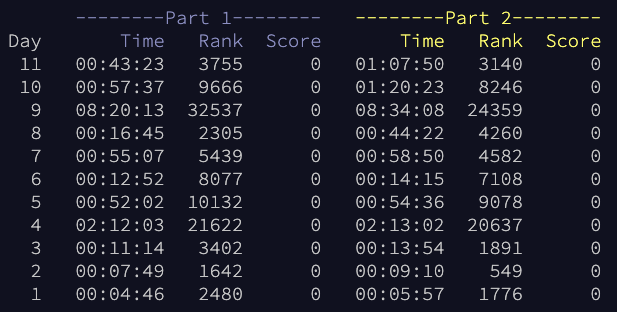
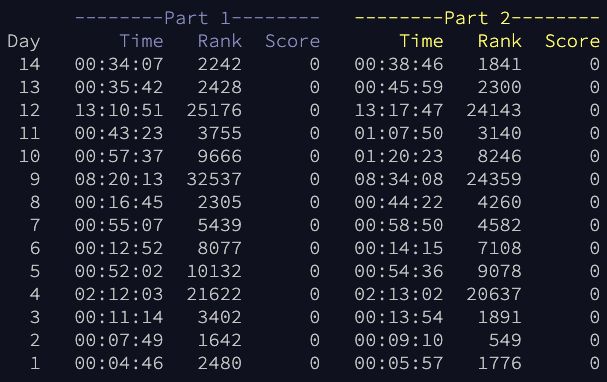
day 14

diff --git a/day14/part1.py b/day14/part1.py
@@ -1,0 +1,101 @@
+from __future__ import annotations
+
+import argparse
+import os.path
+import ast
+import itertools
+
+import pytest
+import support
+
+INPUT_TXT = os.path.join(os.path.dirname(__file__), 'input.txt')
+
+# sand moves down, then down/left, then down/right
+
+def dif(coord1, coord2):
+    coords = set()
+    xs = sorted([coord1[0], coord2[0]])
+    ys = sorted([coord1[1], coord2[1]])
+    for x in range(xs[0], xs[1] + 1):
+        coords.add((x, coord1[1]))
+    for y in range(ys[0], ys[1] + 1):
+        coords.add((coord1[0], y))
+    return coords
+
+def compute(s: str) -> int:
+    l = s.strip().splitlines()
+    rock_coords = set()
+    for line in l:
+        coords = line.split(' -> ')
+        first_coord = ast.literal_eval(coords[0])
+        for i, next_coord in enumerate(coords[1:]):
+            rock = dif(first_coord, ast.literal_eval(next_coord))
+            rock_coords |= rock
+            first_coord = ast.literal_eval(next_coord)
+        # print(len(rock_coords))
+        # print(support.print_coords_hash(rock_coords))
+    max_depth = max(r[1] for r in rock_coords)
+    # print(max_depth)
+    n = 0
+    sand_start = (500,0)
+    sand_overflow = False
+    sands = set()
+    while not sand_overflow:
+        n += 1
+        sand_falling = True
+        sand_coord = (500,0)
+        # print('sand falling')
+        while sand_falling:
+            if sand_coord[1] >= max_depth:
+                sand_overflow = True
+                break
+            sands.add(sand_coord)
+            # print(sands)
+            if (sand_coord[0], sand_coord[1] + 1) not in sands and (sand_coord[0], sand_coord[1] + 1) not in rock_coords:
+                sands.remove(sand_coord)
+                sand_coord = (sand_coord[0], sand_coord[1] + 1)
+                continue
+            elif (sand_coord[0] - 1, sand_coord[1] + 1) not in sands and (sand_coord[0] - 1, sand_coord[1] + 1) not in rock_coords:
+                sands.remove(sand_coord)
+                sand_coord = (sand_coord[0] - 1, sand_coord[1] + 1) 
+                continue
+            elif (sand_coord[0] + 1, sand_coord[1] + 1) not in sands and (sand_coord[0] + 1, sand_coord[1] + 1) not in rock_coords:
+                sands.remove(sand_coord)
+                sand_coord = (sand_coord[0] + 1, sand_coord[1] + 1)
+                continue
+            else:
+                sand_falling = False
+            
+    return n - 1
+
+
+INPUT_S = '''\
+498,4 -> 498,6 -> 496,6
+503,4 -> 502,4 -> 502,9 -> 494,9
+'''
+EXPECTED = 24
+
+
+@pytest.mark.parametrize(
+    ('input_s', 'expected'),
+    (
+        (INPUT_S, EXPECTED),
+    ),
+)
+def test(input_s: str, expected: int) -> None:
+    assert compute(input_s) == expected
+
+
+def main() -> int:
+    parser = argparse.ArgumentParser()
+    parser.add_argument('data_file', nargs='?', default=INPUT_TXT)
+    args = parser.parse_args()
+
+    with open(args.data_file) as f, support.timing():
+        print(compute(f.read()))
+
+    return 0
+
+
+if __name__ == '__main__':
+    raise SystemExit(main())

diff --git a/day14/part2.py b/day14/part2.py
@@ -1,0 +1,99 @@
+from __future__ import annotations
+
+import argparse
+import os.path
+import ast
+import itertools
+
+import pytest
+import support
+
+INPUT_TXT = os.path.join(os.path.dirname(__file__), 'input.txt')
+
+# sand moves down, then down/left, then down/right
+
+def dif(coord1, coord2):
+    coords = set()
+    xs = sorted([coord1[0], coord2[0]])
+    ys = sorted([coord1[1], coord2[1]])
+    for x in range(xs[0], xs[1] + 1):
+        coords.add((x, coord1[1]))
+    for y in range(ys[0], ys[1] + 1):
+        coords.add((coord1[0], y))
+    return coords
+
+def compute(s: str) -> int:
+    l = s.strip().splitlines()
+    rock_coords = set()
+    for line in l:
+        coords = line.split(' -> ')
+        first_coord = ast.literal_eval(coords[0])
+        for i, next_coord in enumerate(coords[1:]):
+            rock = dif(first_coord, ast.literal_eval(next_coord))
+            rock_coords |= rock
+            first_coord = ast.literal_eval(next_coord)
+        # print(len(rock_coords))
+        # print(support.print_coords_hash(rock_coords))
+    max_depth = max(r[1] for r in rock_coords) + 2
+    for i in range(10000):
+        rock_coords.add((i, max_depth))
+    n = 0
+    sand_overflow = False
+    sands = set()
+    while not sand_overflow:
+        n += 1
+        sand_falling = True
+        sand_coord = (500,0)
+        while sand_falling:
+            if (500,0) in sands:
+                sand_overflow = True
+                break
+            sands.add(sand_coord)
+            if (sand_coord[0], sand_coord[1] + 1) not in sands and (sand_coord[0], sand_coord[1] + 1) not in rock_coords:
+                sands.remove(sand_coord)
+                sand_coord = (sand_coord[0], sand_coord[1] + 1)
+                continue
+            elif (sand_coord[0] - 1, sand_coord[1] + 1) not in sands and (sand_coord[0] - 1, sand_coord[1] + 1) not in rock_coords:
+                sands.remove(sand_coord)
+                sand_coord = (sand_coord[0] - 1, sand_coord[1] + 1) 
+                continue
+            elif (sand_coord[0] + 1, sand_coord[1] + 1) not in sands and (sand_coord[0] + 1, sand_coord[1] + 1) not in rock_coords:
+                sands.remove(sand_coord)
+                sand_coord = (sand_coord[0] + 1, sand_coord[1] + 1)
+                continue
+            else:
+                sand_falling = False
+            
+    return n - 1
+
+
+INPUT_S = '''\
+498,4 -> 498,6 -> 496,6
+503,4 -> 502,4 -> 502,9 -> 494,9
+'''
+EXPECTED = 93
+
+
+@pytest.mark.parametrize(
+    ('input_s', 'expected'),
+    (
+        (INPUT_S, EXPECTED),
+    ),
+)
+def test(input_s: str, expected: int) -> None:
+    assert compute(input_s) == expected
+
+
+def main() -> int:
+    parser = argparse.ArgumentParser()
+    parser.add_argument('data_file', nargs='?', default=INPUT_TXT)
+    args = parser.parse_args()
+
+    with open(args.data_file) as f, support.timing():
+        print(compute(f.read()))
+
+    return 0
+
+
+if __name__ == '__main__':
+    raise SystemExit(main())
